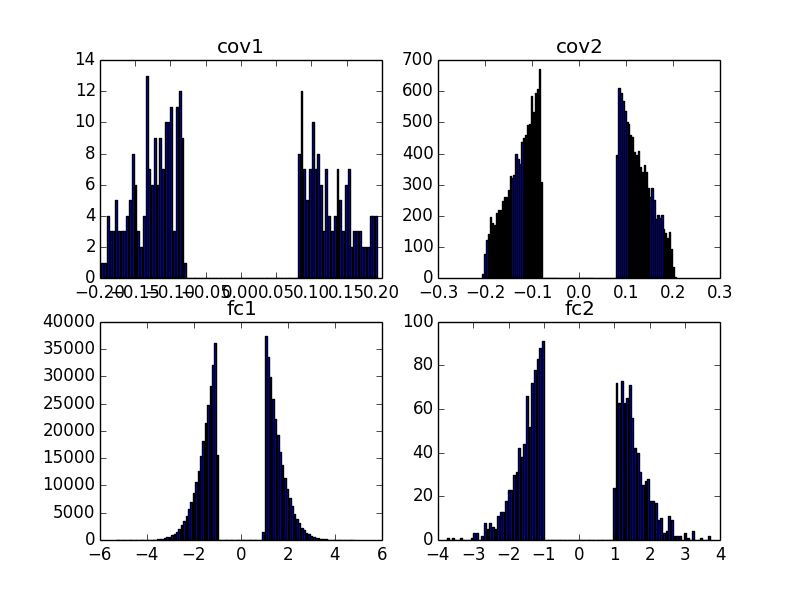
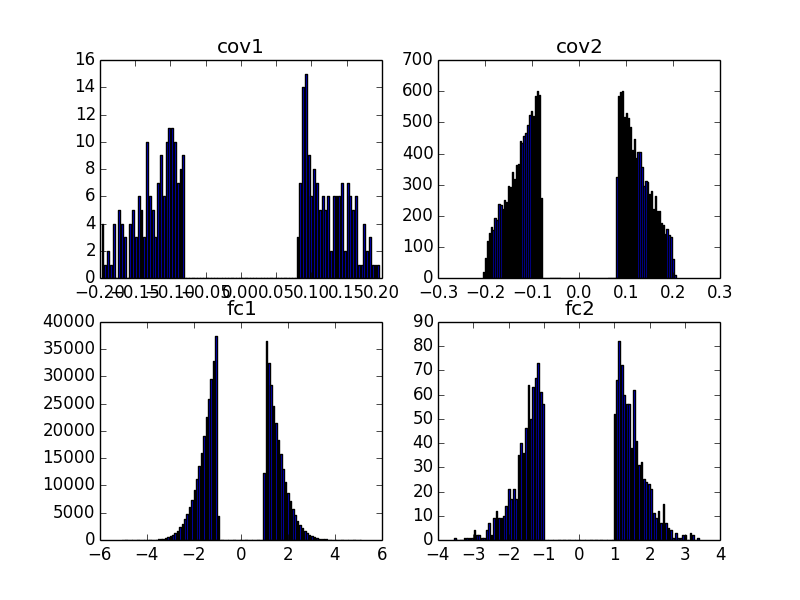
varied prune freq

diff --git a/training_with_pruning.py b/training_with_pruning.py
@@ -119,7 +119,7 @@ def prune_weights(sess, pruning_cnt):
         sess.run(weights[key].assign(prunned_weight))
         sess.run(weights_mask[key].assign(mask))
         calculate_non_zero_weights(key+' post prune' + str(pruning_cnt), weights[key].eval(sess))
-        calculate_non_zero_weights(key+' post prune, mask' + str(pruning_cnt), weights_mask[key].eval(sess))
+        # calculate_non_zero_weights(key+' post prune, mask' + str(pruning_cnt), weights_mask[key].eval(sess))
 def mask_weights(sess):
     keys = ['cov1','cov2','fc1','fc2']
     for key in keys:
@@ -139,6 +139,7 @@ def mask_gradients(grads_and_names, masks_and_names):
         grad = np.array(grad)
         for mask, mask_name in masks_and_names:
             if (mask_name == var_name):
+                # print("found a match, name:{}".format(mask_name))
                 # print ('shape of grad is {}'.format(np.shape(grad)))
                 mask = np.array(mask)
                 # print ('shape of mask is {}'.format(np.shape(mask)))
@@ -276,6 +277,7 @@ def main():
 
                 feed_dict = {}
                 for i, grad_var in enumerate(org_grads):
+                    # calculate_non_zero_weights('newgrad'+str(i), new_grads[i])
                     feed_dict[grad_placeholder[i][0]] = new_grads[i]
                     # print ('inspect newgrad[{}]: {}'.format(i,np.shape(new_grads[i])))
                     # if (i == 0):
@@ -285,6 +287,7 @@ def main():
 
                 train_step.run(feed_dict = feed_dict)
                 mask_weights(sess)
+                calculate_non_zero_weights('weights cov 1'+str(i), weights['cov1'].eval())
 
                 c = sess.run(cost,  feed_dict={
                         x: batch_x,
@@ -310,14 +313,14 @@ def main():
                 # # print((mask != 0).sum())
                 # # print((mask_in_grad!= 0).sum())
                 #
-                with open('log/data1215.txt',"a") as output_file:
+                with open('log/data1216.txt',"a") as output_file:
             		output_file.write("{},{},{}\n".format(training_cnt,train_accuracy, c))
                 # Compute average loss
                 avg_cost += c / total_batch
             # Display logs per epoch step
             print("Epoch:", '%04d' % (epoch+1), "cost=", "{:.9f}".format(avg_cost))
             if epoch % display_step == 0:
-        		saver.save(sess, "tmp_20161214/prunned_model.ckpt")
+        		saver.save(sess, "tmp_20161216/prunned_model.ckpt")
         print("Optimization Finished!")
 
         # Test model

diff --git a/training_with_pruning_v2.py b/training_with_pruning_v2.py
@@ -215,7 +215,7 @@ def main():
     # I need to fetch this value
     variables = [weights['cov1'], weights['cov2'], weights['fc1'], weights['fc2'],
                 biases['cov1'], biases['cov2'], biases['fc1'], biases['fc2']]
-    org_grads = trainer.compute_gradients(cost, var_list = variables, gate_gradients = trainer.GATE_GRAPH)
+    org_grads = trainer.compute_gradients(cost, var_list = variables, gate_gradients = trainer.GATE_OP)
     org_grads = [(ClipIfNotNone(grad), var) for grad, var in org_grads]
 
     grad_placeholder = []
